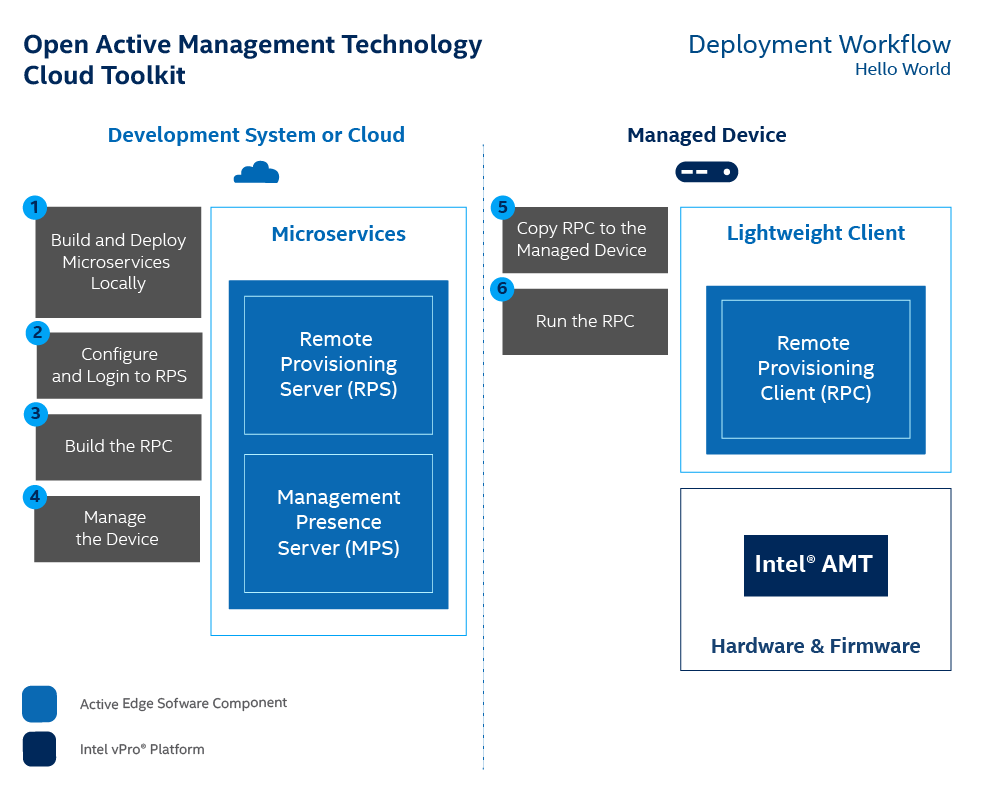
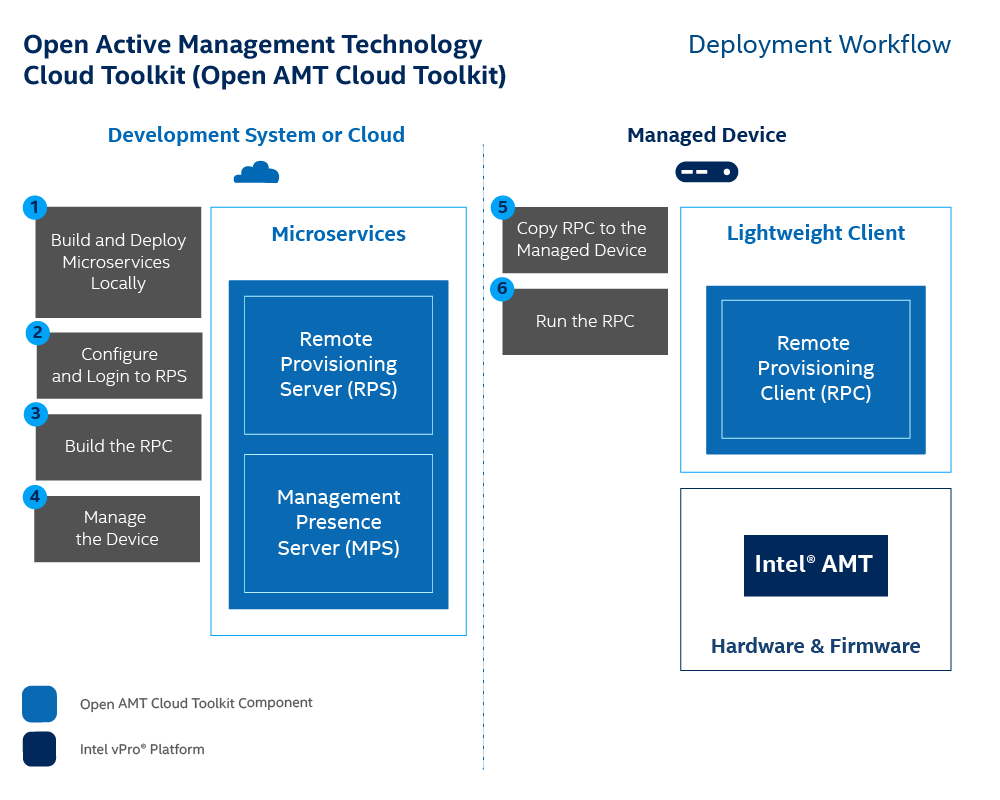
docs: elevates docker setup, removes Hello World, fixes some typos (#55)
* docs: elevates docker setup, removes Hello World, fixes a few text issues

* Update index.md

Modified according to BW's suggestion.

* Update index.md

Changed region(s): [[0.186, 0.0625, 0.496, 0.125], [0.062, 0.875, 0.31, 0.9062], [0.868, 0.0625, 0.961, 0.0938]]

diff --git a/docs/index.md b/docs/index.md
@@ -26,7 +26,7 @@ Additional sections provide guidance on the reference implementation UI Toolkit,
 
  **Figure 2: High-level architecture consists of four major software components.**
 
-As shown in Figure 2, Open AMT Cloud Toolkit high-level architecture consists of four components:
+As shown in Figure 2, Open AMT Cloud Toolkit high-level architecture consists of five components:
 
 1. **MPS** - A microservice that uses an Intel vPro® platform feature, Client Initiated Remote Access (CIRA), for enabling edge, cloud devices to maintain a persistent connection for out-of-band manageability features, such as power control or Keyboard, Video, Mouse (KVM) control.
 2. **RPS** - A microservice that activates Intel® AMT platforms using predefined profiles and connects them to the MPS for manageability use cases.
@@ -38,24 +38,27 @@ Integrate the Open AMT Cloud Toolkit into new and existing management consoles, 
 
 ## Open AMT Cloud Toolkit Setup
 
+### Build and Deploy Microservices with Local Docker* Containers
+
+Set up quickly with Docker containers.
+
+[Get Started with Microservices as Docker Containers](Docker/overview.md){: .md-button .md-button--primary }
+
+Estimated completion time: **Approximately 30 minutes**
+
+## Additional Setup Options
 ### Build and Deploy Microservices Locally
-If unfamiliar with Docker*, choose this setup option to accomplish a manual, local installation of microservices. 
 
-[Get Started with Local Microservices](Local/overview.md){: .md-button .md-button--primary }
+Set up microservices locally with a manual build process.
 
+[Get Started with Local Microservices](Local/overview.md).
 
-Estimated completion time: **Approximately 15 minutes**
+Estimated completion time: **Approximately 45 minutes**
 
-### Build and Deploy Microservices with Local Docker* Images
+### Build and Deploy Microservices on the Cloud
+Both build-and-deploy options above install microservices locally on a development system. Experienced Docker users may choose to deploy microservices straight to the cloud.
 
-If familiar with Docker, choose this setup option to install microservices as local Docker images. This option is an especially good choice for development systems with Docker already installed.
-
-[Get Started with Microservices as Docker Images](Docker/overview.md){: .md-button .md-button--primary }
-
-
-Estimated completion time: **Approximately 15 minutes**
-
-Both build-and-deploy options install microservices locally on a development system. The client application is installed on a managed device. Experienced Docker users may choose to deploy microservices straight to the [cloud](Docker/dockerCloud.md).
+[Get Started with Microservices on the Cloud](Docker/dockerCloud.md).
  
 -------
 ## Additional Intel® AMT Resources

diff --git a/docs/Docker/dockerLocal.md b/docs/Docker/dockerLocal.md
@@ -1,13 +1,6 @@
- 
-The Open Active Management Technology (Open AMT) Cloud Toolkit's [Management Presence Server (MPS)](../Glossary.md#m) and [Remote Provisioning Server (RPS)](../Glossary.md#r) provide support for deploying the microservices as [Docker*](../Glossary.md#d) images, standardized packages containing an application's source code, libraries, environment, and dependencies. 
+#Express Setup
 
-
-## Why Docker*?
-
-A Docker container is the instantiation of a Docker image as a virtualized unit that separates the application from the environment. Docker containers start and run reliably, securely, and portably inside different environments, eliminating some of the problems that occur with software deployment on varying platforms. 
-
-Get more information about Docker images and containers at [Docker resources.](https://www.docker.com/resources/what-container)
-
+This setup installs the [Management Presence Server (MPS)](../Glossary.md#m) and [Remote Provisioning Server (RPS)](../Glossary.md#r) microservices as [Docker*](../Glossary.md#d) containers, standardized packages containing an application's source code, libraries, environment, and dependencies. 
 
 ## Get the Toolkit
 
@@ -60,11 +53,17 @@ Build the MPS, RPS, and Sample UI Docker images and launch the stack.
 
 
 1.  Run docker-compose to start the containers.
-
-    ``` bash    
-    sudo docker-compose -f "docker-compose.yml" up -d --build
-    ```
-
+    
+    === "Linux"
+        ```
+        sudo docker-compose -f "docker-compose.yml" up -d --build
+        ```
+    
+    === "Windows (Powershell)"
+        ```
+        docker-compose -f "docker-compose.yml" up -d --build
+        ```
+    
     !!! important "Important - For Windows* 10"
         While the `docker-compose up` command is running, you may see a pop-up ask for permission for Docker Desktop Filesharing. You must select **Share It** for the `docker-compose up` command to execute successfully.  If the pop-up expires,`docker-compose up` will fail.  You must run `docker-compose down -v` and then rerun `docker-compose up` to successfully start the containers.
 
@@ -74,10 +73,17 @@ Build the MPS, RPS, and Sample UI Docker images and launch the stack.
 
 2. Check that all of the containers are running.
 
-    ```bash
-    sudo docker ps --format "table {{.Image}}\t{{.Status}}\t{{.Names}}"
-    ```
-
+    
+    === "Linux"
+        ```
+        sudo docker ps --format "table {{.Image}}\t{{.Status}}\t{{.Names}}"
+        ```
+    
+    === "Windows (Powershell)"
+        ```
+        docker ps --format "table {{.Image}}\t{{.Status}}\t{{.Names}}"
+        ```
+    
     !!! success
         ``` bash    
         IMAGE                             STATUS

diff --git a/docs/Docker/overview.md b/docs/Docker/overview.md
@@ -1,14 +1,14 @@
-# Build and Deploy Microservices with Local Docker* Images
+# Prerequisites
 
-This section contains instructions for deploying the  Open AMT Cloud Toolkit's [Management Presence Server (MPS)](../Glossary.md#m) and [Remote Provisioning Server (RPS)](../Glossary.md#r) on a local development system as Docker* images. These Hello World deployment instructions detail how to install the microservices manually on a development system and are not intended as production environment instructions.
+This section contains prerequisites for deploying Open AMT Cloud Toolkit's [Management Presence Server (MPS)](../Glossary.md#m) and [Remote Provisioning Server (RPS)](../Glossary.md#r) on a local development system as Docker* containers. 
 
 [![Docker Local Overview](../assets/images/LocalDockerWorkflow.png)](../assets/images/LocalDockerWorkflow.png)
 
 
-**Figure 1: Deploy microservices on a local development system as Docker images. **
-
+**Figure 1: Deploy microservices on a local development system as Docker containers. **
 
 ## What You'll Need
+
 
 ###Hardware
 
@@ -33,16 +33,17 @@ Both systems must use a wired (i.e., cable) connection on the same network.
         (3) To troubleshoot the installation, [see the troubleshooting guide](https:/docs.docker.com/docker-for-windows/troubleshoot/){target=_blank}.
 
 - [git](https://git-scm.com/downloads)
-     
 
 ## What You'll Do
 
-**To complete a Hello World microservice deployment:**
+**To complete a deployment:**
 
-- Build and Deploy Docker* Images Locally
+- Install the Prerequisites
+- Run Setup to Build and Deploy Microservices with Docker
 - Login and Configure RPS
 - Build RPC
 - Copy RPC to a Managed Device
+
 
 **To connect the managed device:**
 
@@ -50,6 +51,12 @@ Both systems must use a wired (i.e., cable) connection on the same network.
 - Manage the Device with MPS
 
 These sections include instructions for Windows and Linux* environments. Run instructions in a terminal window, the Windows Command Prompt in Administrator mode or the Linux shell/terminal.
+
+## Why Docker*?
+
+A Docker container is the instantiation of a Docker image as a virtualized unit that separates the application from the environment. Docker containers start and run reliably, securely, and portably inside different environments, eliminating some of the problems that occur with software deployment on varying platforms. Docker streamlines installation to get you up and running faster.
+
+Get more information about Docker images and containers at [Docker resources.](https://www.docker.com/resources/what-container)   
 
 Estimated completion time: **15 minutes**
 

diff --git a/docs/Docker/dockerCloud.md b/docs/Docker/dockerCloud.md
@@ -1,6 +1,6 @@
 # Build Docker* Containers for MPS and RPS and Deploy to the Cloud
 
-The Open AMT Cloud Toolkit's [Management Presence Server (MPS)](../Glossary.md#m) and [Remote Provisioning Server (RPS)](../Glossary.md#r) provide support for deploying the microservices as [Docker*](../Glossary.md#d) images to the cloud. 
+The Open AMT Cloud Toolkit provides support for deploying [Management Presence Server (MPS)](../Glossary.md#m) and [Remote Provisioning Server (RPS)](../Glossary.md#r) microservices as [Docker*](../Glossary.md#d) containers to the cloud. 
 
 ## What You'll Do
 This tutorial explains the steps to deploy MPS and RPS as Docker images to the cloud using Microsoft Azure*:
